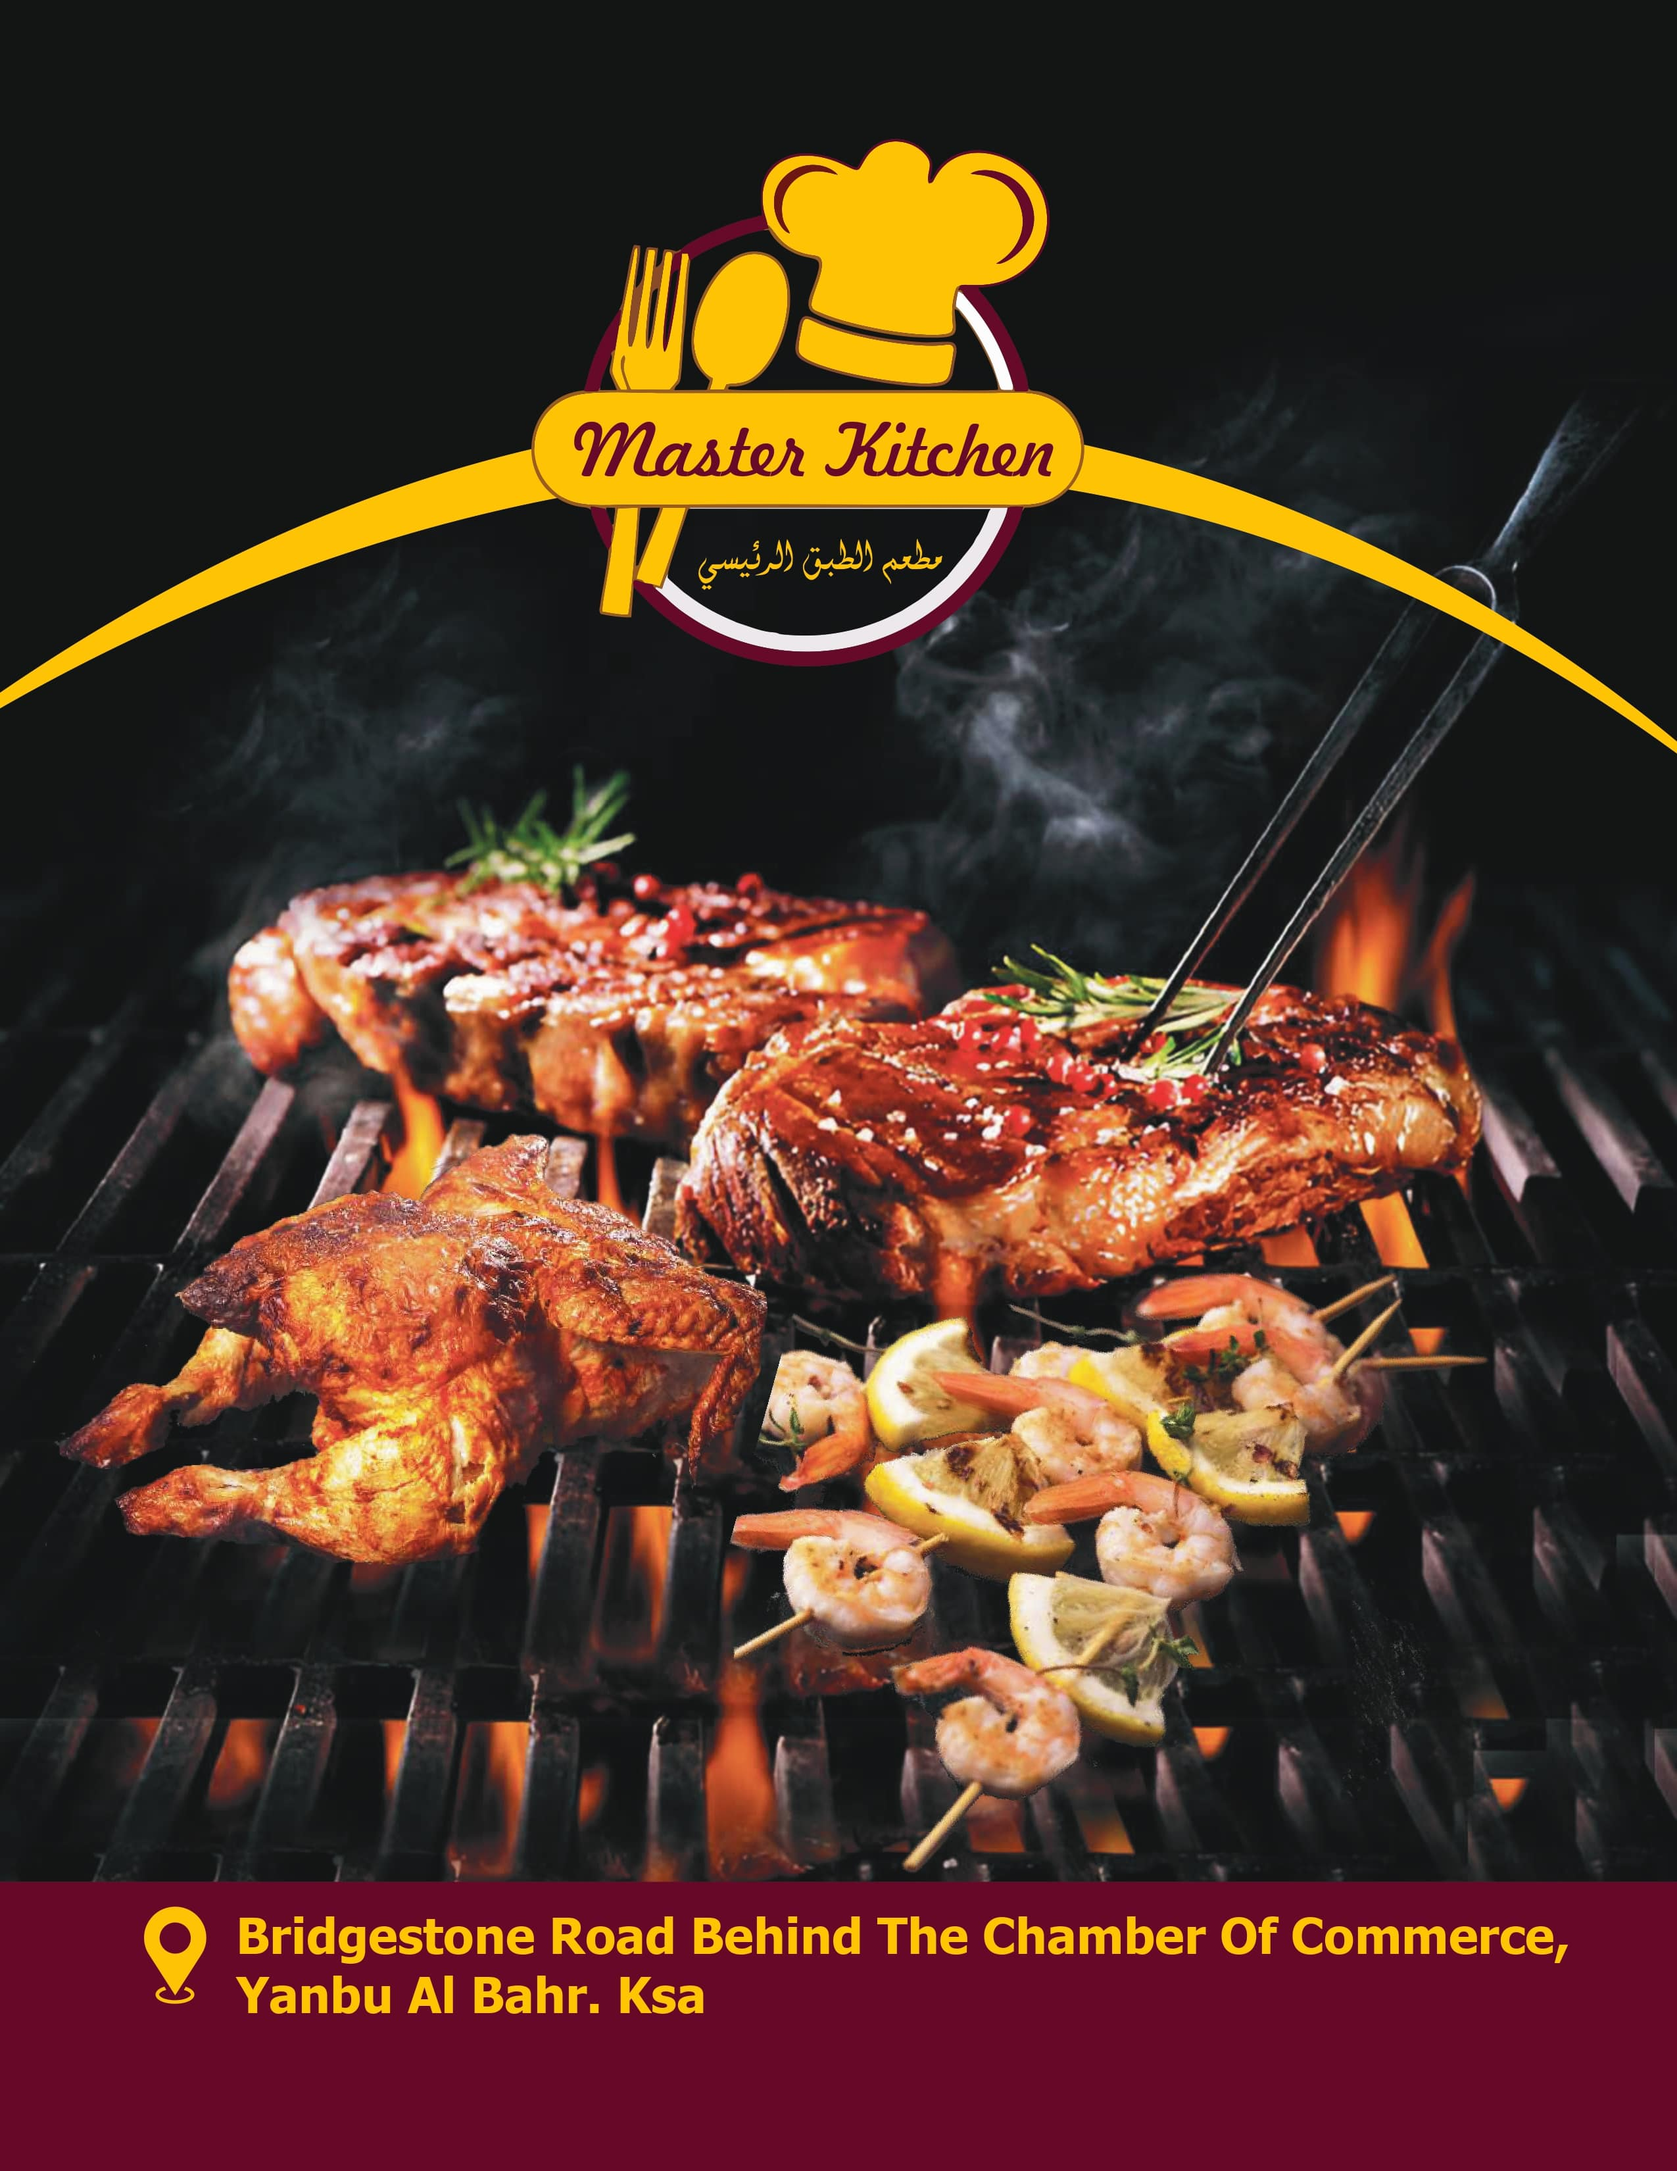
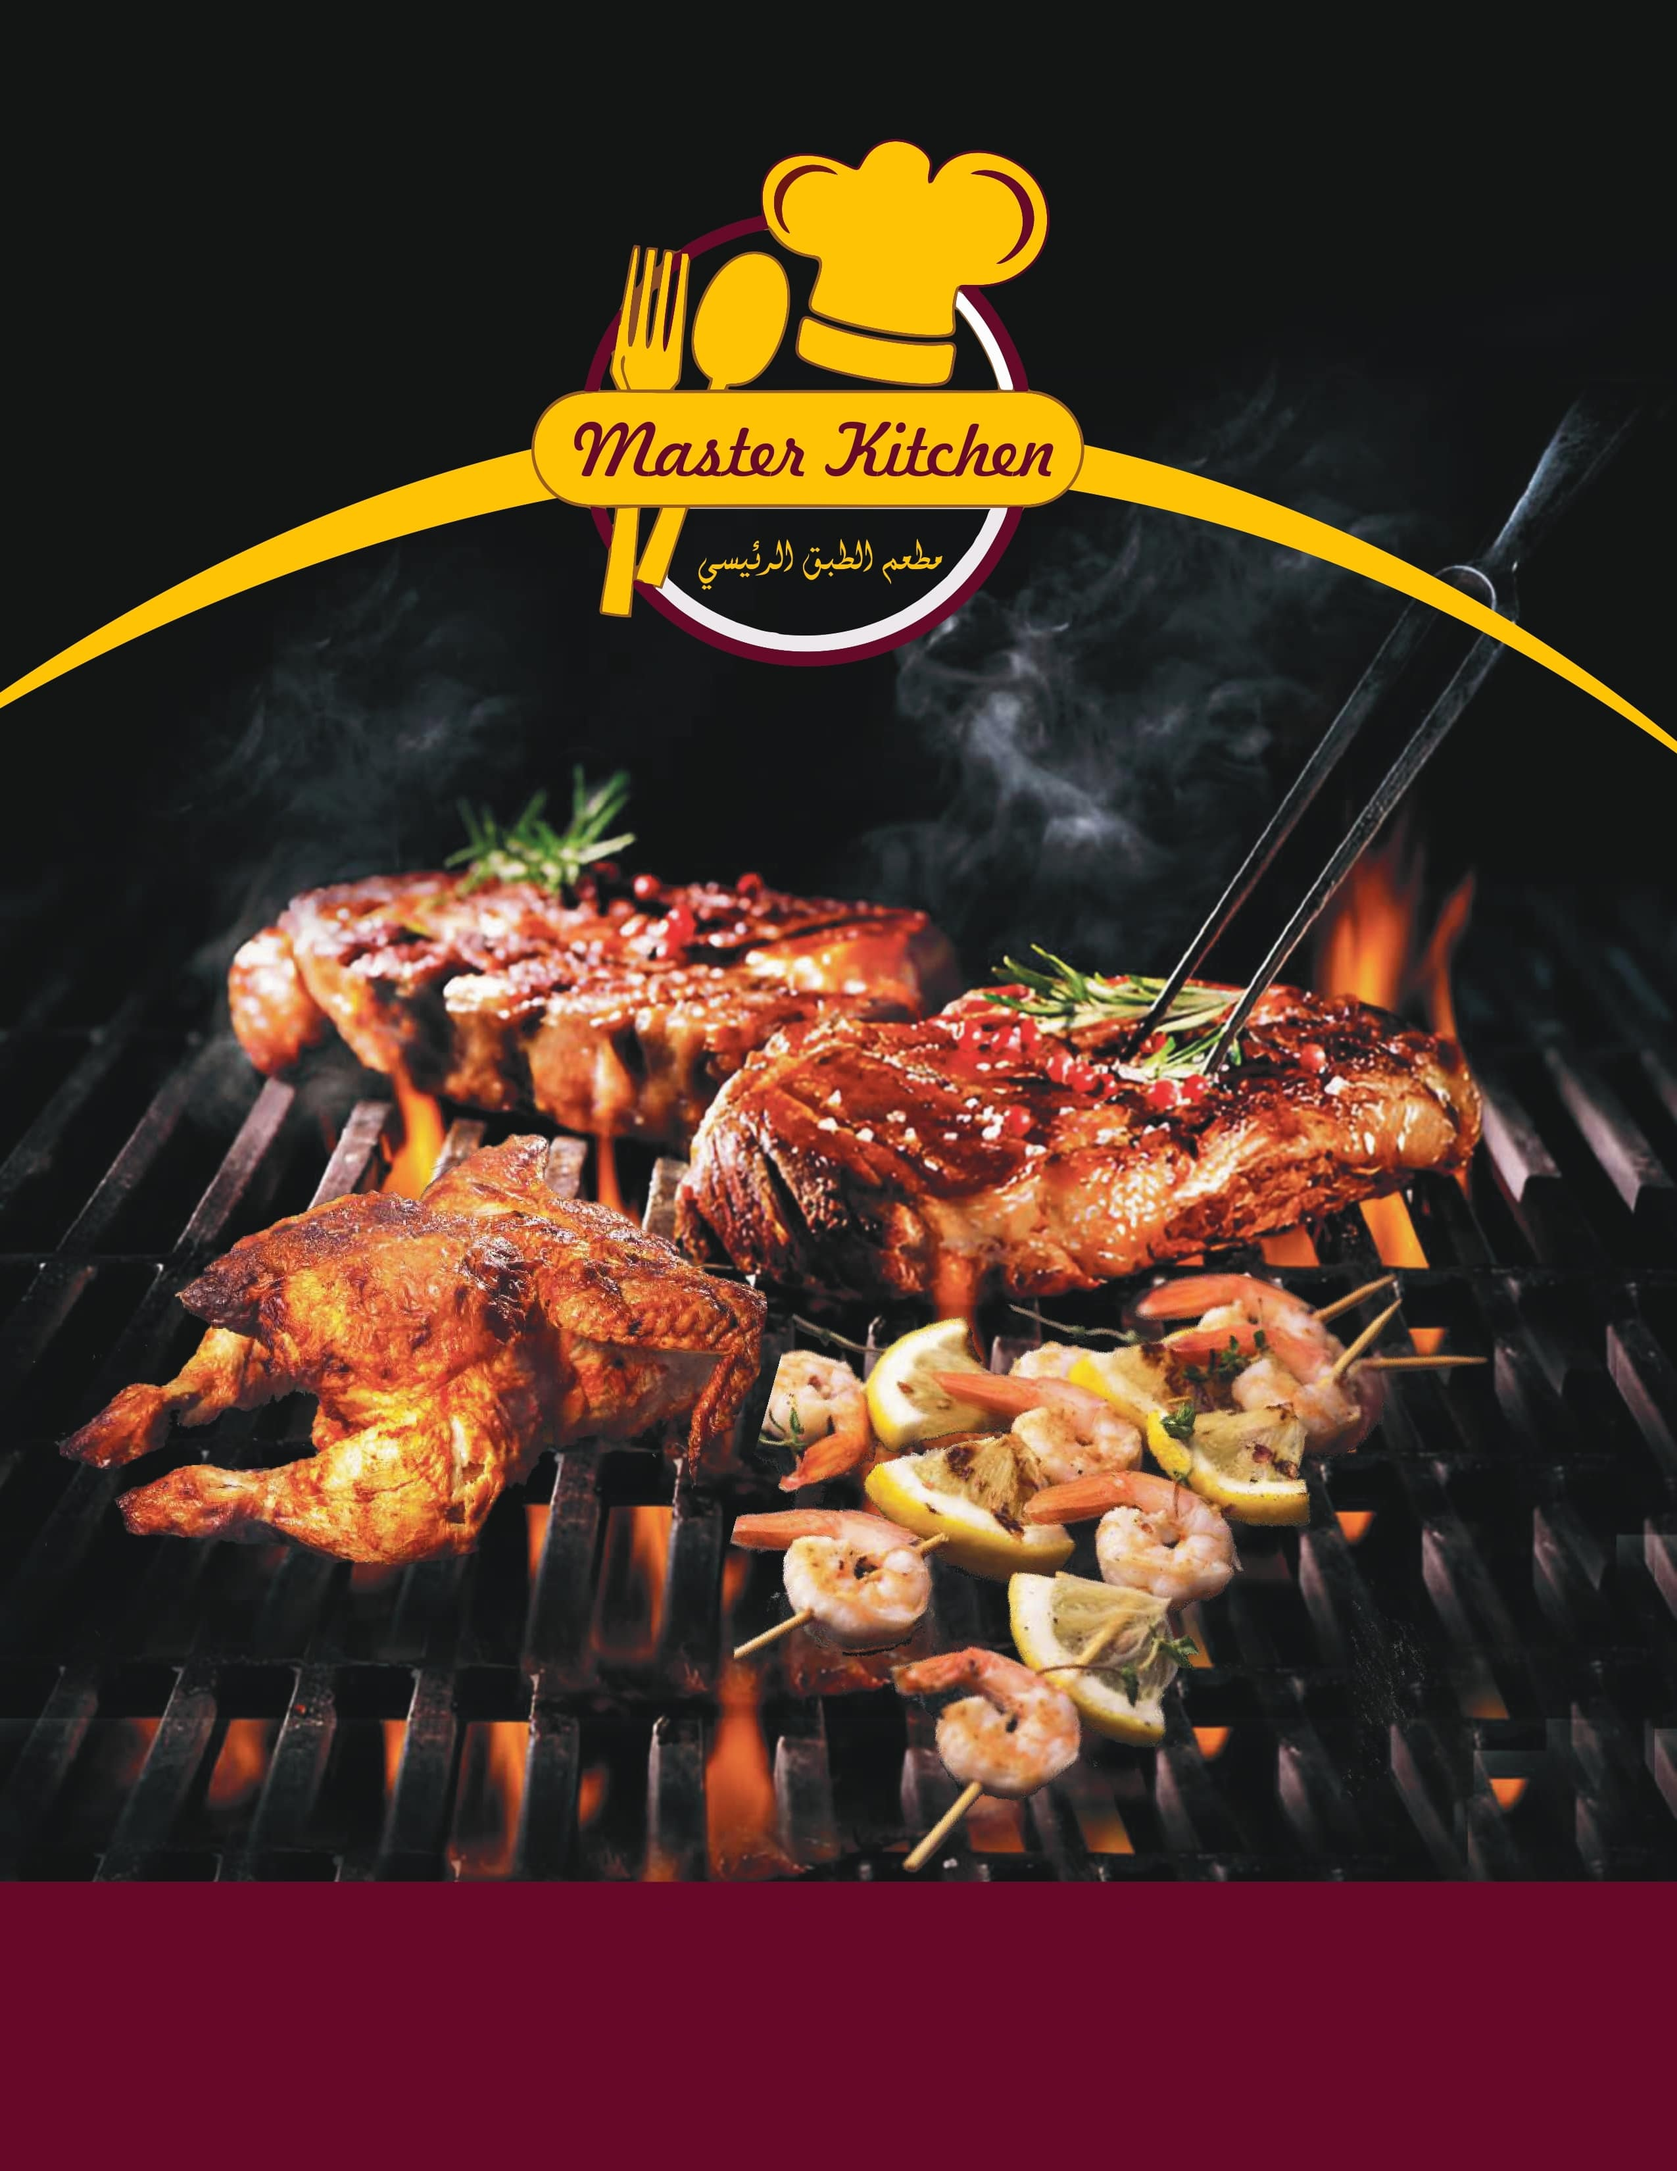
Enhance index.html layout and styling for improved gallery presentation

Changed region(s): [[0.062, 0.8739, 0.9294, 0.9364]]

diff --git a/index.html b/index.html
@@ -3,6 +3,10 @@
   <head>
     <meta charset="UTF-8" />
     <meta name="viewport" content="width=device-width, initial-scale=1.0" />
+    <link
+      href="https://fonts.googleapis.com/icon?family=Material+Icons"
+      rel="stylesheet"
+    />
     <title>Kitchen Master Gallery</title>
     <style>
       body {
@@ -35,8 +39,9 @@
         background: #fff;
       }
       .contact-info {
+        width: 100%;
         position: absolute;
-        bottom: -9rem;
+        bottom: 1rem;
         font-size: 1.8rem;
         font-weight: bolder;
         padding: 0rem 4rem;
@@ -47,16 +52,46 @@
         text-decoration: none;
         margin-left: 10px;
       }
+      .location-link {
+        color: #fec305;
+        text-decoration: none;
+        display: flex;
+        align-items: center;
+        font-size: 1.5rem;
+        font-weight: bolder;
+        margin-bottom: 0.5rem;
+      }
+      .location-link strong {
+        margin-right: 0.5rem;
+      }
     </style>
   </head>
   <body>
     <div class="container">
       <div class="gallery">
-        <img src="images/master kitchen_page-0001.jpg" alt="Kitchen Page 1" />
-        <address class="contact-info">
-          <strong>&#9743;</strong>
-          <a href="tel:+966131234567">+966 13 123 4567</a>
-        </address>
+        <div style="position: relative">
+          <img src="images/master kitchen_page-0001.jpg" alt="Kitchen Page 1" />
+          <address class="contact-info">
+            <div style="display: flex; align-items: center">
+              <i class="material-icons" style="font-size: 48px; color: #fec305"
+                >place</i
+              >
+              <a
+                href="https://maps.app.goo.gl/2yeznfBuBr5PXz9k7"
+                target="_blank"
+                rel="noopener"
+                class="location-link"
+              >
+                Bridgestone Road Behind The Chamber Of Commerce,<br />
+                Yanbu Al Bahr. Ksa
+              </a>
+            </div>
+            <div>
+              <strong>&#9743;</strong>
+              <a href="tel:+966131234567">+966 13 123 4567</a>
+            </div>
+          </address>
+        </div>
         <img src="images/master kitchen_page-0002.jpg" alt="Kitchen Page 2" />
         <img src="images/master kitchen_page-0003.jpg" alt="Kitchen Page 3" />
         <img src="images/master kitchen_page-0004.jpg" alt="Kitchen Page 4" />
